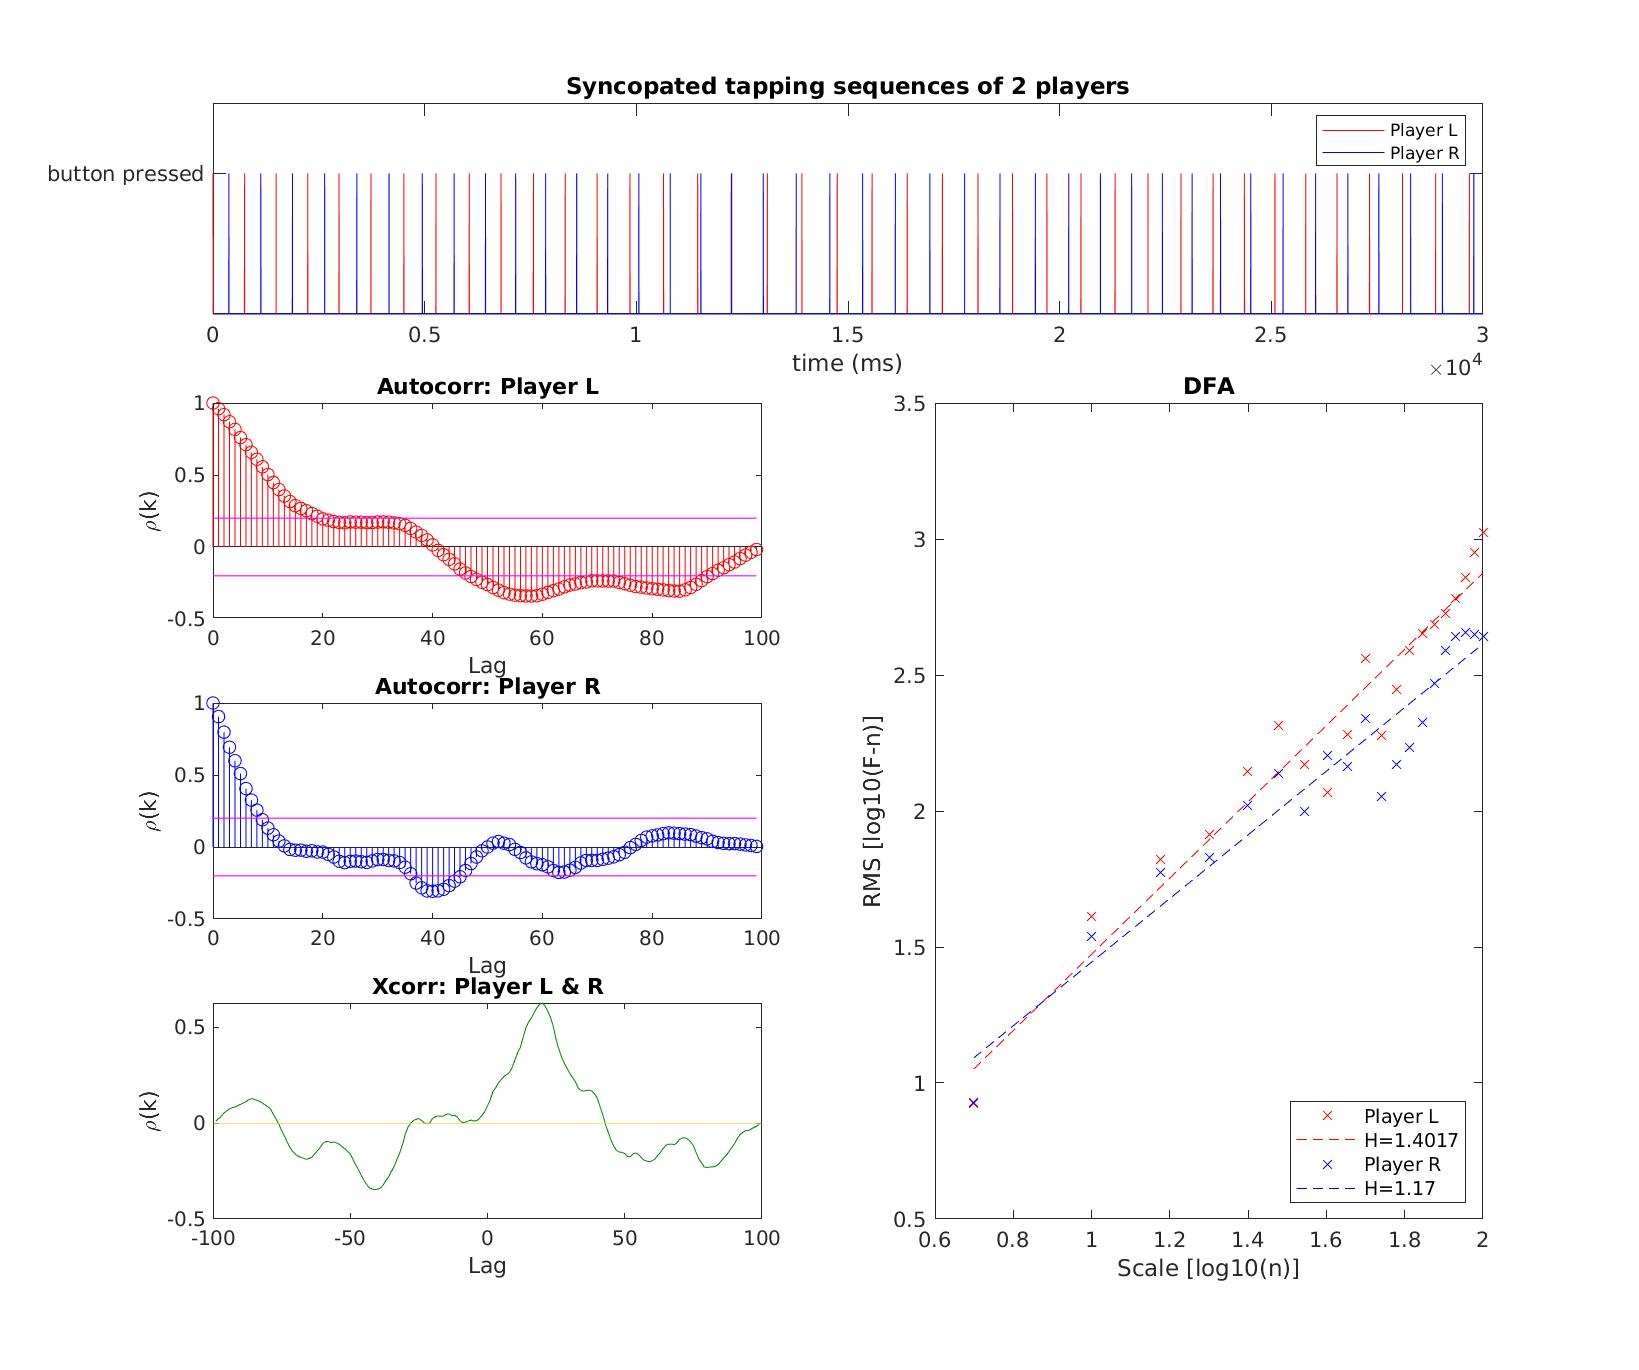
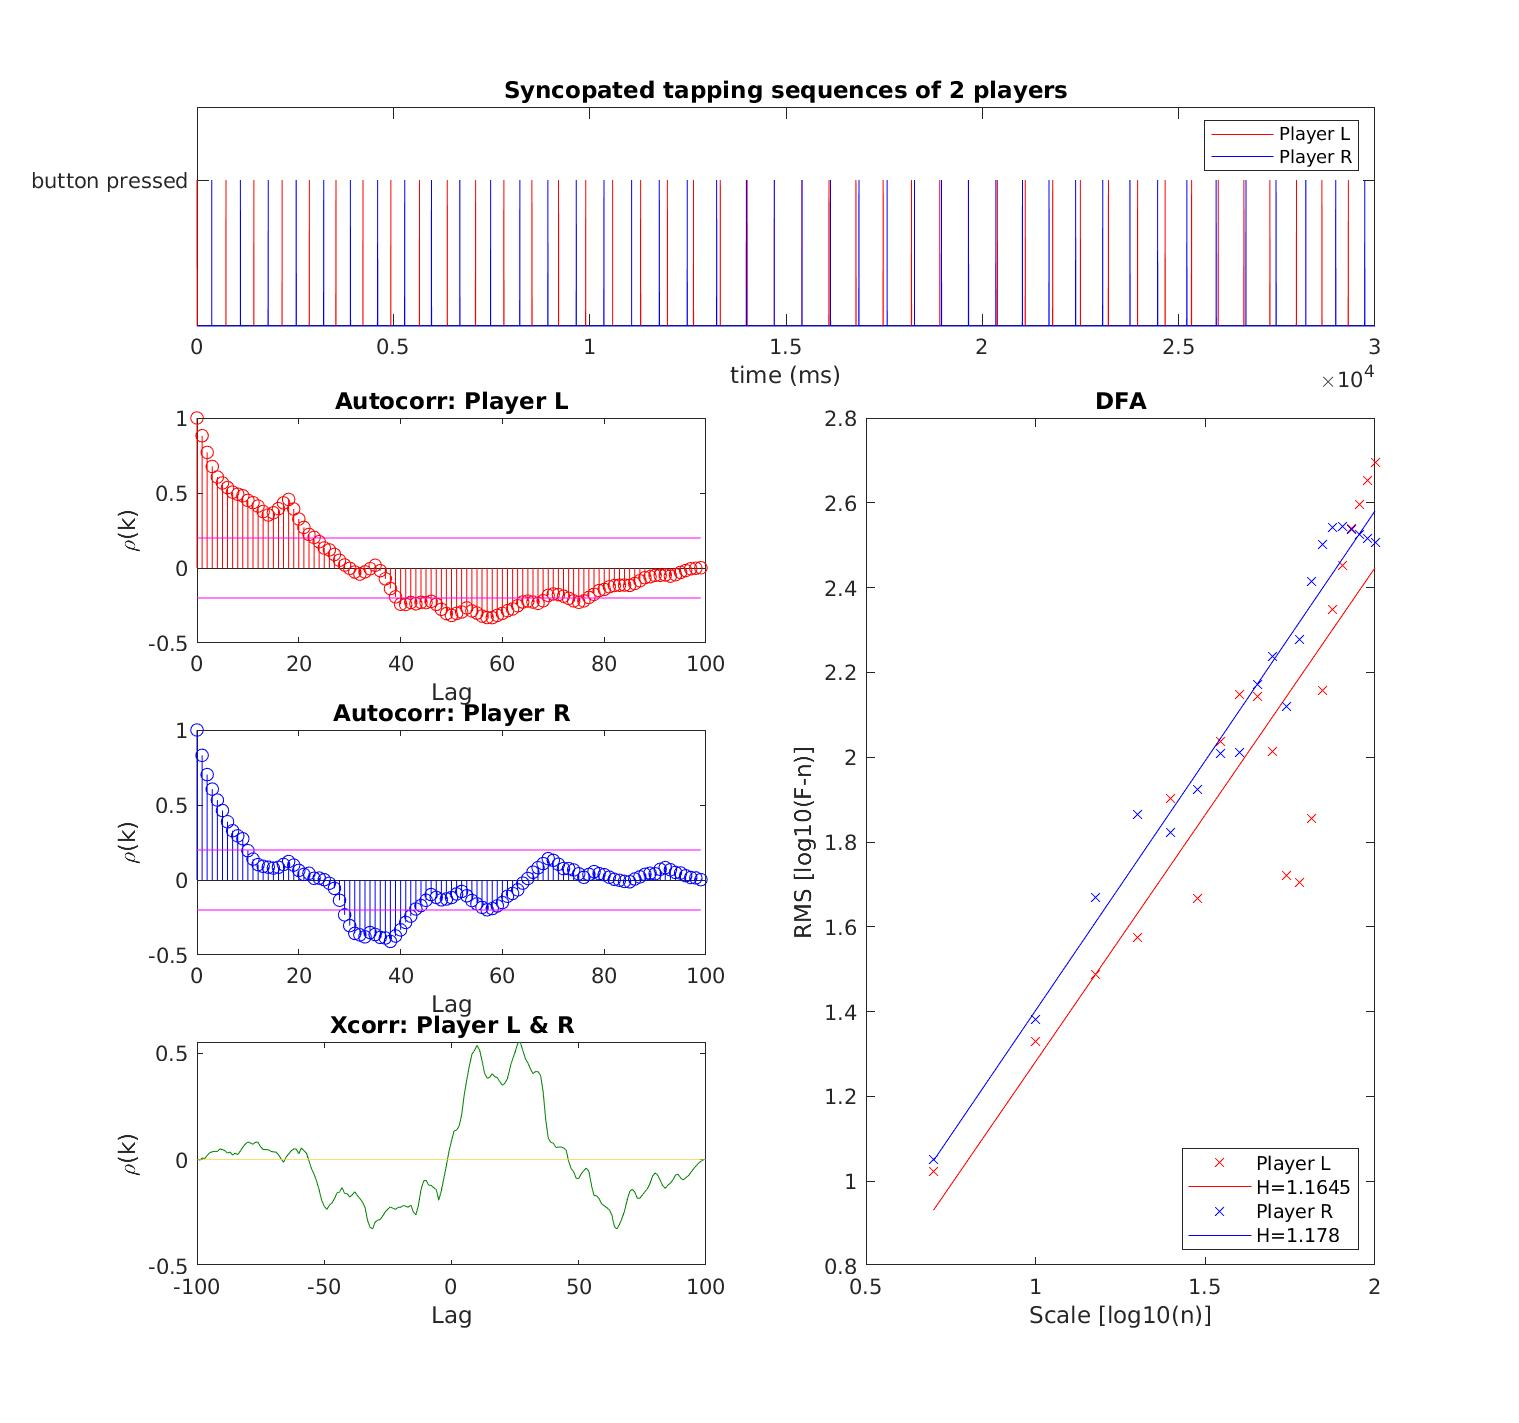
CommitName

diff --git a/1_over_f/data_analysis/ARFIMA/sim_alpha_d.m b/1_over_f/data_analysis/ARFIMA/sim_alpha_d.m
@@ -33,7 +33,20 @@ legend(['alpha1= ' num2str(alpha1)], ['alpha2= ' num2str(alpha2)],...
 cd /ssd/zhibin/1overf/20220609_2P/Segmented_data/Plots
 % calculate std of the tapping intervals
 cd /home/zhibin/Documents/GitHub/Motor_cordination/1_over_f/data_analysis/2P_testing
-
+%%  color scheme
+red   = [1 0 0];
+pink  = [1 0.65 0.75];
+blue  = [0 0 1];
+green = [0 1 0];
+darkgreen = [0 0.5 0];
+grey  = [0.5 0.5 0.5];
+yellow  = [1 1 0];
+deepyellow  = [1 0.8 0.2];
+megenta = [1 0 1];% fill([0 1 1 0],[0 0 1 1],megenta)
+cyan = [0 1 1]; % fill([0 1 1 0],[0 0 1 1],cc)
+purple = [0.6 0.1 0.9];
+ARFIMAcolors=[deepyellow;darkgreen;pink];
+    
 %% PLOT-2 Try the 2 functions fit the slope to find d
 % Function 1
 cd /home/zhibin/Documents/GitHub/Motor_cordination/1_over_f/data_analysis/ARFIMA
@@ -62,7 +75,7 @@ subplot(1,4,2); autocorr(y,T-1);
 subplot(1,4,3); Fs=1.3; [freqs,fcoef] = oneoverf(y,Fs);xlabel('Log(f)');ylabel('Log(power)');
 subplot(1,4,4); [D,Alpha1]=DFA_main(y);
 
-%% Different d
+%% PLOT-3 Different d
 figure('units','normalized','outerposition',[0 0 1 1]);
 N=1000;stdx=20;
 % ds=[-0.5 -0.2 0.5];
@@ -102,7 +115,7 @@ suptitle(['Different d with same std = ' num2str(stdx)]);
 figureName=['Different_d'];
 saveas(gcf,figureName,'fig');
 
-%% add parcorr
+%% PLOT-3-1 add parcorr
 figure('units','normalized','outerposition',[0 0 1 1]);
 N=100;stdx=20;
 ds=[0.2 0.5 1];
@@ -134,7 +147,7 @@ end
 % cd /usr/local/MATLAB/R2022a/toolbox/bioinfo/biodemos/ % suptitle.m
 suptitle(['Different d with same std = ' num2str(stdx)]);
 
-%% Different length
+%% PLOT-4 Different length
 Ns=[100 500 1000 3000];d=1;stdx=20;
 figure('units','normalized','outerposition',[0 0 1 1]);
 for i=1:length(Ns)
@@ -163,7 +176,7 @@ suptitle(['Different length with same d = ' num2str(d)]);
 figureName=['Different_N'];
 saveas(gcf,figureName,'fig');
 
-%% Segmenting 3000 taps into 100 taps/chuncks
+%% PLOT-5 Segmenting 3000 taps into 100 taps/chuncks
 Ns=[3000 1000 500 100];d=1;stdx=20;
 figure('units','normalized','outerposition',[0 0 1 1]);
 for i=1:length(Ns)
@@ -193,8 +206,12 @@ suptitle(['The 1st Segment with different length from the 3000 taps']);
 figureName=['Different_Segment'];
 saveas(gcf,figureName,'fig');
 
-%% PLOT for 100 or 600 taps see how stable the estimations are
+%% PLOT-6-calculation for 100 or 600 taps see how stable the estimations are
+%{ 
 N=100; ds=[0.1:0.1:1]; repeat=100; stdx=20;
+%}
+
+function [Betass,BetassErr,Hss,HssErr] = IterARFIMA(N,ds,repeat,stdx);
 
 % calcualtion
 Betass=[];Hss=[];BetassErr=[];HssErr=[];
@@ -218,8 +235,9 @@ BetassErr=[BetassErr; std(Betas)/sqrt(N)];
 Hss=[Hss;Hs];
 HssErr=[HssErr; std(Hs)/sqrt(N)];
 end
+end
 
-% plot all 10 subplots
+%% PLOT-6-1 plot all 10 subplots
 figure('units','normalized','outerposition',[0 0 1 1]);
 for j=1:length(ds)
     subplot(2,10,j);    
@@ -236,19 +254,54 @@ for j=1:length(ds)
 end
 % suptitle(['Beta and H with different d repeating 100 times (ARFIMA-SIM ([],d,[]); length of ' num2str(N) ')']);
 suptitle(['Beta and H with different d repeating 100 times (dgp-arfima ([],d,[]); length of ' num2str(N) ')']);
-% 2 plots with error bar
+
+%% PLOT-6-2 : 2 plots with error bar
 figure;
 subplot(1,2,1);
 errorbar(ds,mean(Betass,2),BetassErr,'.')
 xlabel('d');ylabel('Beta');xlim([0 1.1]);
 title(['Beta with standard error']);
+B=2.*ds; hold on; plot(ds,B,'color',purple);
+legend({'B','B=2*d'},'Location','southeast');
 subplot(1,2,2);
 errorbar(ds,mean(Hss,2),HssErr,'.')
 xlabel('d');ylabel('H');xlim([0 1.1]);
 title(['H with standard error']);
+H=ds+0.5; hold on; plot(ds,H,'color',purple);
+legend({'H','H=d+0.5'},'Location','southeast');
 suptitle(['Beta and H with different d repeating 100 times (ARFIMA ([],d,[]); length of ' num2str(N) ')']);
 
-% 2 violin plots
+%% PLOT-6-2-1 : 2 plots with error bar for 3 different length
+Ns=[100 600 1000]; ds=[0.1:0.1:1]; repeat=100; stdx=20;
+figure;
+tic;
+for i=1:3
+    [Betass,BetassErr,Hss,HssErr] = IterARFIMA(Ns(i),ds,repeat,stdx);
+    subplot(1,2,1);
+        hold on;
+        errorbar(ds,mean(Betass,2),BetassErr,'.','color',ARFIMAcolors(i,:));
+        xlabel('d');ylabel('Beta');xlim([0 1.1]);
+        title(['Beta with standard error']);
+        hold off;
+        if i==3;
+            B=2.*ds; hold on; plot(ds,B,'color',purple);hold off;
+            legend({'N=100','N=600','N=1000','B=2*d'},'Location','southeast');
+        end
+    subplot(1,2,2);
+        hold on;
+        errorbar(ds,mean(Hss,2),HssErr,'.','color',ARFIMAcolors(i,:))
+        xlabel('d');ylabel('H');xlim([0 1.1]);
+        title(['H with standard error']);
+        hold off;
+        if i==3;
+            H=ds+0.5; hold on; plot(ds,H,'color',purple);hold off;
+            legend({'N=100','N=600','N=1000','H=d+0.5'},'Location','southeast');
+        end
+end
+suptitle(['Beta and H with different d repeating 100 times (ARFIMA ([],d,[]); length of ' num2str(Ns) ')']);
+toc
+%Elapsed time is 640.222034 seconds.
+%% PLOT-6-3 : 2 violin plots
 addpath /home/zhibin/Documents/GitHub/Motor_cordination/1_over_f/data_analysis/violin
 figure;
 subplot(1,2,1);
@@ -266,8 +319,8 @@ xticklabels(string(ds));
 xlabel('d');
 suptitle(['Beta and H with different d repeating 100 times (ARFIMA ([],d,[]); length of ' num2str(N) ')']);
 
-%% simulation plot for the army 
-N=100; d=1; repeat=100; stdx=20;
+%% PLOT-7 simulation plot for the army 
+N=100; d=0.7; repeat=100; stdx=20;
 
 Z=dgp_arfima(0,[],[],N,stdx,d,0);
 y1=round(Z'+750); 
@@ -285,7 +338,7 @@ end
 Y2=[zeros(1,750/2) Y2];
 % figure;plot(y1,'r');hold on;plot(y2,'b');
 
-figure;
+figure('units','normalized','outerposition',[0 0 0.6 1]);
 subplot(4,1,1);
 plot(Y1,'r');hold on;plot(Y2,'b');
 xlabel('time (ms)');
@@ -325,10 +378,10 @@ subplot(4,2,[4 6 8]);
 % DFA
 [D,Alpha1,n,F_n,FitValues]=DFA_main(y1);
 plot(log10(n),log10(F_n),'rx');
-hold on; plot(log10(n),FitValues,'r--');
+hold on; plot(log10(n),FitValues,'r');
 [D,Alpha2,n,F_n,FitValues]=DFA_main(y2);
 plot(log10(n),log10(F_n),'bx');
-hold on; plot(log10(n),FitValues,'b--');
+hold on; plot(log10(n),FitValues,'b');
 legend({'Player L',['H=' num2str(Alpha1)],'Player R',['H=' num2str(Alpha2)],},'Location','southeast');
 xlabel('Scale [log10(n)]') % win_lengths 
 ylabel('RMS [log10(F-n)]') % RMS values

diff --git a/1_over_f/data_analysis/ARFIMA/Sim_plots/IterARFIMA.m b/1_over_f/data_analysis/ARFIMA/Sim_plots/IterARFIMA.m
@@ -1,0 +1,30 @@
+function [Betass,BetassErr,Hss,HssErr] = IterARFIMA(N,ds,repeat,stdx)
+
+%{ 
+N=100; ds=[0.1:0.1:1]; repeat=100; stdx=20;
+%}
+
+% calcualtion
+Betass=[];Hss=[];BetassErr=[];HssErr=[];
+for j=1:length(ds)
+    d=ds(j);
+    Betas=[];Hs=[];
+    for i=1:repeat 
+        % [Z] = ARFIMA_SIM(N,[],[],d,stdx);
+        Z=dgp_arfima(0,[],[],N,stdx,d,0);
+        y=Z+750;
+        % PSA
+        Fs=1.3; [~,~,beta] = oneoverf(y,Fs);
+        % DFA
+        [~,H]=DFA_main(y);
+        % append the values
+        Betas = [Betas beta];
+        Hs = [Hs H];  
+    end
+Betass=[Betass;Betas];
+BetassErr=[BetassErr; std(Betas)/sqrt(N)];
+Hss=[Hss;Hs];
+HssErr=[HssErr; std(Hs)/sqrt(N)];
+end
+end
+
